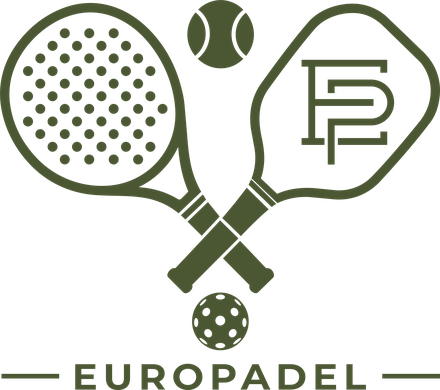
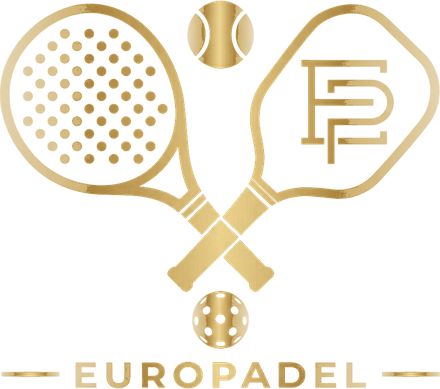
Latest Europadel website

diff --git a/club.html b/club.html
@@ -16,7 +16,7 @@
 <body>
 <div class="page " data-page="club">
 <section class="hero sub" id="top">
-  <picture><img src="img/exterior.jpg" alt="Europadel building exterior at night with the illuminated logo"></picture>
+  <picture><img src="img/community.jpg" alt="Players laughing together in the lounge after a game"></picture>
   <header class="nav" id="nav">
     <a class="logo" href="index.html" aria-label="Europadel home"><img src="img/crest-gold.png" alt="Europadel"></a>
     <div class="nav-right">
@@ -32,19 +32,19 @@
   </header>
   <div class="hero-body">
     <p class="eyebrow">The Club · Dubai Investment Park 1</p>
-    <h1>More than a court. <em>A place to belong.</em></h1>
-    <p>A 50,000 sq ft private sports club in Dubai Investment Park. Indoor, fully air-conditioned, open seven days.</p>
-    <div class="btns"><a class="btn" href="#visit">Plan Your Visit</a><a class="btn btn-ghost" href="book.html">Reserve a Court</a></div>
+    <h1>Your game. <em>Your community.</em></h1>
+    <p>A private sports club for padel and pickleball. Indoor, fully air-conditioned and open seven days.</p>
+    <div class="btns"><a class="btn" href="#visit">Plan Your Visit</a><a class="btn btn-ghost" href="membership.html">Become a Member</a></div>
   </div>
 </section>
 
 <section id="club">
   <div class="wrap club">
-    <img src="img/club.jpg" alt="Europadel reception with the gold logo on an olive wall">
+    <img src="img/club-new.jpg" alt="The Europadel café bar beside the blue padel courts, with the gold crest on the wall">
     <div>
-      <p class="eyebrow">Our Club</p>
-      <h2>Room to play,<br><em>room to breathe.</em></h2>
-      <p class="lead">Europadel is a 50,000 sq ft indoor club with 9-metre ceilings, four padel courts and five pickleball courts under one roof. Fully air-conditioned, year-round. A mezzanine café looks down onto play, the changing rooms are hotel standard, and there are 52 parking spaces on the plot.</p>
+      <p class="eyebrow">Inside Europadel</p>
+      <h2>Everything under<br><em>one roof.</em></h2>
+      <p class="lead">Walk in, check in at reception and you are steps from your court. The café looks straight onto play, the pro shop has what you forgot, and the changing rooms are ready for the drive home. Nine courts, one address, no compromises.</p>
       <div class="stats">
         <div><b>50K</b><span>Sq ft club</span></div>
         <div><b>4</b><span>Padel courts</span></div>
@@ -76,32 +76,19 @@
       <div><p class="eyebrow">The spaces</p><h2>Play. Connect. <em>Stay a little longer.</em></h2></div>
       <p>The game may bring you through the doors. The people, energy and atmosphere give you a reason to stay.</p>
     </div>
-    <div class="spaces"><article class="space" id="cafe"><img src="img/cafe.jpg" alt="Two players relaxing with coffee in the café lounge overlooking the courts"><div><p class="eyebrow">The mezzanine café</p><h3>The best seat <em>in the club.</em></h3><p>Our café sits on the mezzanine, looking straight down onto play. Replay the best point over a flat white, watch the next match, meet your next doubles partner. The after-match table is part of the game.</p><div class="tags"><span>Court views</span><span>Coffee</span><span>Fresh bites</span></div></div></article><article class="space"><img src="img/court-orange.jpg" alt="Indoor courts under warm lighting"><div><p class="eyebrow">The courts</p><h3>Two sports. <em>One roof.</em></h3><p>Four padel courts and five pickleball courts in one 50,000 sq ft hall. Indoor, 9-metre ceilings, fully air-conditioned with fresh air. Most venues make you choose a sport. We do not.</p><div class="tags"><span>4 padel</span><span>5 pickleball</span><span>9 m ceilings</span></div></div></article><article class="space" id="changing"><img src="img/changing.jpg" alt="Changing rooms with marble and soft lighting"><div><p class="eyebrow">Changing rooms and showers</p><h3>Hotel standard. <em>Every day.</em></h3><p>Spacious, hotel-standard changing rooms with serious showers. Arrive from work, leave for dinner. A place to prepare before the game and reset after it.</p><div class="tags"><span>Showers</span><span>Towels</span><span>Vanity area</span></div></div></article><article class="space"><img src="img/proshop.jpg" alt="The Europadel pro shop with apparel and racquets"><div><p class="eyebrow">Pro shop</p><h3>Your game. <em>Your style.</em></h3><p>A curated pro shop, not a kiosk. Performance wear, racquets, paddles and essentials, selected to complement your game, plus Europadel club apparel.</p><div class="tags"><span>Racquets</span><span>Paddles</span><span>Apparel</span></div></div></article><article class="space"><img src="img/lockers.jpg" alt="Member lockers with warm wood finishes"><div><p class="eyebrow">Member lockers</p><h3>Your space. <em>Your ritual.</em></h3><p>More than a place to store your essentials. Rich finishes, warm lighting and a sense of understated luxury, designed to make the club feel like your own.</p><div class="tags"><span>Day lockers</span><span>Reserved member lockers</span></div></div></article></div>
+    <div class="spaces"><article class="space" id="cafe"><img src="img/cafe.jpg" alt="Two players relaxing with coffee in the café lounge overlooking the courts"><div><p class="eyebrow">The mezzanine café</p><h3>The best seat <em>in the club.</em></h3><p>Up on the mezzanine, the café looks straight down onto the courts. Breakfast before an early game, a long lunch between sessions, or a table with friends while the evening matches play out below.</p><div class="tags"><span>Court views</span><span>Coffee</span><span>Fresh bites</span></div></div></article><article class="space"><img src="img/court-orange.jpg" alt="Indoor courts under warm lighting"><div><p class="eyebrow">The courts</p><h3>Two sports. <em>One roof.</em></h3><p>Four padel courts and five pickleball courts in one 50,000 sq ft hall. Indoor, 9-metre ceilings, fully air-conditioned with fresh air. Most venues make you choose a sport. We do not.</p><div class="tags"><span>4 padel</span><span>5 pickleball</span><span>9 m ceilings</span></div></div></article><article class="space" id="changing"><img src="img/changing.jpg" alt="Changing rooms with marble and soft lighting"><div><p class="eyebrow">Changing rooms and showers</p><h3>Hotel standard. <em>Every day.</em></h3><p>Spacious, hotel-standard changing rooms with serious showers. Arrive from work, leave for dinner. A place to prepare before the game and reset after it.</p><div class="tags"><span>Showers</span><span>Towels</span><span>Vanity area</span></div></div></article><article class="space"><img src="img/proshop.jpg" alt="The Europadel pro shop with apparel and racquets"><div><p class="eyebrow">Pro shop</p><h3>Your game. <em>Your style.</em></h3><p>A curated pro shop, not a kiosk. Performance wear, racquets, paddles and essentials, selected to complement your game, plus Europadel club apparel.</p><div class="tags"><span>Racquets</span><span>Paddles</span><span>Apparel</span></div></div></article><article class="space"><img src="img/lockers.jpg" alt="Member lockers with warm wood finishes"><div><p class="eyebrow">Member lockers</p><h3>Your space. <em>Your ritual.</em></h3><p>More than a place to store your essentials. Rich finishes, warm lighting and a sense of understated luxury, designed to make the club feel like your own.</p><div class="tags"><span>Day lockers</span><span>Reserved member lockers</span></div></div></article></div>
   </div>
 </section>
 
-<section id="sports-at-club">
+<section class="tint" id="culture" style="padding-top:0">
   <div class="wrap">
     <div class="head-row">
-      <div><p class="eyebrow">Two sports, one club</p><h2>Same court, <em>more people.</em></h2></div>
-      <p>Your first rally or your hundredth match, there is a game here with your name on it.</p>
-    </div>
-    <div class="ways two">
-      <article class="way"><small>Padel · 4 courts</small><h3>Fast rallies. <em>Big smiles.</em></h3><p>Four indoor courts under 9-metre ceilings. Always doubles, with glass walls in play and long, social rallies.</p><a class="link" href="padel.html">Discover padel <span aria-hidden="true">→</span></a></article>
-      <article class="way"><small>Pickleball · 5 courts</small><h3>Easy to learn. <em>Hard to put down.</em></h3><p>Five indoor, air-conditioned courts. Quick games to 11, a gentle learning curve and properly competitive once you get going.</p><a class="link" href="pickleball.html">Discover pickleball <span aria-hidden="true">→</span></a></article>
-    </div>
-  </div>
-</section>
-
-<section class="tint" id="culture">
-  <div class="wrap">
-    <div class="head-row">
-      <div><p class="eyebrow">Club culture</p><h2>Your game. <em>Your community.</em></h2></div>
-      <p>At Europadel you are more than a player. You are the heart of the club.</p>
+      <div><p class="eyebrow">Club culture</p><h2>More than a player. <em>Part of the club.</em></h2></div>
+      <p>Every court, every gathering and every detail is designed around the people who play here.</p>
     </div>
     <div class="basics">
       <article class="basic"><h3>Every level welcome</h3><p>First-timers and tournament players share the same courts. Nobody is too new to play.</p></article>
-      <article class="basic"><h3>Play, then stay</h3><p>The game ends; the conversation doesn't. Post-match coffee in the lounge is part of the ritual.</p></article>
+      <article class="basic"><h3>Play, then stay</h3><p>The game ends; the conversation doesn't. The after-match table is part of the ritual.</p></article>
       <article class="basic"><h3>Meet new partners</h3><p>Looking for a fourth? Ask reception or join a social session to find players at your level.</p></article>
       <article class="basic"><h3>Two sports, one roof</h3><p>Padel and pickleball side by side. Bring friends who play either, and meet in the café after.</p></article>
     </div>
@@ -125,11 +112,11 @@
   </div>
 </section>
 
-<section class="promise" aria-label="Our promise">
-  <img src="img/promise.jpg" alt="">
+<section class="promise" aria-label="Our mission">
+  <img src="img/club-hall.jpg" alt="">
   <div class="wrap">
-    <p class="eyebrow">Our Promise</p>
-    <p class="quote">A community built around a <em>brighter tomorrow.</em></p>
+    <p class="eyebrow">Our Mission</p>
+    <p class="quote">Elevating the game.<br><em>Connecting people.</em></p>
   </div>
 </section>
 
@@ -149,7 +136,7 @@
     </div>
     <div class="right">
       <a class="map" href="https://www.google.com/maps/search/Eurostar/@24.9759004,55.1531966,16.6z?hl=en" target="_blank" rel="noopener" aria-label="Open Europadel location in Google Maps">
-        <img src="img/exterior.jpg" alt="Europadel building exterior at night with the illuminated logo">
+        <img src="img/location.jpg" alt="Player walking onto a padel court at sunset">
         <span>View on Google Maps <b style="color:var(--apricot-deep)" aria-hidden="true">→</b></span>
       </a>
       <dl class="details">

diff --git a/styles.css b/styles.css
@@ -823,3 +823,82 @@ button.btn{font-family:inherit; border:0; cursor:pointer}
 .admin section.ap-view{padding:0; display:flex; flex-direction:column; gap:20px}
 .admin section.ap-view[hidden]{display:none}
 .admin section.gate{padding:24px 16px}
+
+/* Oct 9: olive menu bar on every page including the homepage; new photo framing */
+.hero .nav{background:var(--olive); border-bottom:0}
+
+/* Oct 9 (2): colour + framing requests */
+.promise .quote em{color:var(--apricot-deep)}
+.app-title h1 em{color:var(--apricot-deep)}
+.page[data-page="club"] .promise::after{background:linear-gradient(90deg, rgba(24,29,15,.86) 0%, rgba(24,29,15,.72) 55%, rgba(24,29,15,.45) 100%)}
+
+/* Oct 9 (3): every italic heading word in deep apricot */
+.hero h1 em, .hero.sub h1 em{color:var(--apricot-deep)}
+.cta-band h2 em, .fresh h2 em, .fresh-grid b em, .auth > figure figcaption em, .space h3 em, .way h3 em, .card h3 em, .done h1 em, .tier h3 em{color:var(--apricot-deep)}
+
+/* booking page cover photo */
+.page[data-page="book"] .hero.sub .hero-body{padding:clamp(48px, 6vw, 80px) var(--pad) clamp(56px, 7vw, 90px)}
+.page[data-page="book"] .hero .btns:empty{display:none}
+
+/* PHOTO FRAMING: keep faces and action in view (generated from face positions) */
+img[src$="booking-hero.jpg"]{object-position:45% 0% !important}
+img[src$="cafe.jpg"]{object-position:34% 0% !important}
+img[src$="card.jpg"]{object-position:50% 50% !important}
+img[src$="changing.jpg"]{object-position:50% 50% !important}
+img[src$="club-hall.jpg"]{object-position:78% 23% !important}
+img[src$="club-new.jpg"]{object-position:45% 50% !important}
+img[src$="club.jpg"]{object-position:29% 17% !important}
+img[src$="coach-1to1.jpg"]{object-position:53% 2% !important}
+img[src$="coaching-hero.jpg"]{object-position:41% 22% !important}
+img[src$="community.jpg"]{object-position:64% 3% !important}
+img[src$="court-orange.jpg"]{object-position:50% 55% !important}
+img[src$="hero-m.jpg"]{object-position:50% 50% !important}
+img[src$="hero.jpg"]{object-position:50% 50% !important}
+img[src$="location.jpg"]{object-position:50% 40% !important}
+img[src$="lockers.jpg"]{object-position:50% 50% !important}
+img[src$="m1.jpg"]{object-position:50% 30% !important}
+img[src$="m2.jpg"]{object-position:50% 40% !important}
+img[src$="m3.jpg"]{object-position:50% 40% !important}
+img[src$="padel-g1.jpg"]{object-position:53% 19% !important}
+img[src$="padel-g2.jpg"]{object-position:49% 13% !important}
+img[src$="padel-g3.jpg"]{object-position:29% 16% !important}
+img[src$="padel.jpg"]{object-position:42% 26% !important}
+img[src$="pickle-play.jpg"]{object-position:44% 2% !important}
+img[src$="pickle.jpg"]{object-position:49% 8% !important}
+img[src$="price-hero.jpg"]{object-position:47% 13% !important}
+img[src$="promise.jpg"]{object-position:50% 60% !important}
+img[src$="proshop.jpg"]{object-position:50% 50% !important}
+/* END PHOTO FRAMING */
+
+/* cover photos start below the solid menu bar, so nothing is hidden behind it */
+.hero > picture{top:var(--navh, 104px) !important; bottom:0; height:auto !important}
+.hero > picture img{height:100% !important}
+.hero{--navh:104px}
+@media (max-width:760px){ .hero{--navh:80px} }
+/* pickleball cover: headline on one line */
+.page[data-page="pickleball"] .hero h1 em{display:inline}
+@media (min-width:761px){ .page[data-page="pickleball"] .hero h1{white-space:nowrap; font-size:clamp(40px, 5.2vw, 80px)} }
+@media (max-width:760px){ .page[data-page="pickleball"] .hero h1{font-size:clamp(26px, 7.4vw, 40px); white-space:nowrap} }
+
+/* homepage sport cards: identical boxes, one-line titles at the same size */
+#sports .cards{align-items:stretch}
+#sports .card{container-type:inline-size}
+#sports .card h3{white-space:nowrap; font-size:clamp(17px, 6.1cqi, 40px)}
+#sports .card h3 em{display:inline}
+#sports .card img{height:300px}
+@media (max-width:760px){ #sports .card img{height:220px} }
+/* booking cover: taller so her head is fully visible */
+.page[data-page="book"] .hero.sub .hero-body{padding:clamp(80px, 9vw, 130px) var(--pad) clamp(80px, 9vw, 120px)}
+#sports .cards{grid-auto-rows:1fr}
+#sports .card .foot{flex-direction:column; align-items:flex-start; gap:18px}
+
+/* homepage green band: continuous ticker (the whole line moves together) */
+.strip{display:block; overflow:hidden; padding:24px 0; white-space:nowrap}
+.strip-track{display:flex; width:max-content; animation:stripMove 38s linear infinite}
+.strip-group{display:flex; align-items:center; gap:30px; padding-right:30px; flex:none}
+.strip:hover .strip-track{animation-play-state:paused}
+@keyframes stripMove{from{transform:translateX(0)} to{transform:translateX(-25%)}}
+@media (max-width:760px){ .strip{padding:18px 0} .strip-group{gap:16px; padding-right:16px} .strip-track{animation-duration:26s} }
+@media (prefers-reduced-motion: reduce){ .strip-track{animation:none} .strip{display:flex; justify-content:center} .strip-group[aria-hidden]{display:none} .strip{white-space:normal} }
+/* homepage cover: "A place to belong." in white */
+.page[data-page="home"] .hero h1 em{color:var(--white)}

diff --git a/index.html b/index.html
@@ -42,9 +42,7 @@
   <a class="scroll" href="#club" aria-label="Scroll to the club"><svg width="18" height="18" viewBox="0 0 24 24" fill="none" stroke="currentColor" style="color:var(--white)" stroke-width="1.4" aria-hidden="true"><path d="M12 5v14M6 13l6 6 6-6"/></svg></a>
 </section>
 
-<div class="strip" aria-label="Play, connect, belong">
-  <span>Play</span><i>✦</i><span>Connect</span><i>✦</i><span>Belong</span><i>✦</i><span>Same Court, More People</span><i>✦</i><em>Stay for coffee</em>
-</div>
+<div class="strip" aria-label="Play, connect, belong"><div class="strip-track"><div class="strip-group"><span>Play</span><i>✦</i><span>Connect</span><i>✦</i><span>Belong</span><i>✦</i><span>Same Court, More People</span><i>✦</i><em>Stay for coffee</em><i>✦</i></div><div class="strip-group" aria-hidden="true"><span>Play</span><i>✦</i><span>Connect</span><i>✦</i><span>Belong</span><i>✦</i><span>Same Court, More People</span><i>✦</i><em>Stay for coffee</em><i>✦</i></div><div class="strip-group" aria-hidden="true"><span>Play</span><i>✦</i><span>Connect</span><i>✦</i><span>Belong</span><i>✦</i><span>Same Court, More People</span><i>✦</i><em>Stay for coffee</em><i>✦</i></div><div class="strip-group" aria-hidden="true"><span>Play</span><i>✦</i><span>Connect</span><i>✦</i><span>Belong</span><i>✦</i><span>Same Court, More People</span><i>✦</i><em>Stay for coffee</em><i>✦</i></div></div></div>
 
 <section id="club">
   <div class="wrap club">
@@ -134,7 +132,7 @@
     </div>
     <div class="right">
       <a class="map" href="https://www.google.com/maps/search/Eurostar/@24.9759004,55.1531966,16.6z?hl=en" target="_blank" rel="noopener" aria-label="Open Europadel location in Google Maps">
-        <img src="img/exterior.jpg" alt="Europadel building exterior at night with the illuminated logo">
+        <img src="img/location.jpg" alt="Player walking onto a padel court at sunset">
         <span>View on Google Maps <b style="color:var(--apricot-deep)" aria-hidden="true">→</b></span>
       </a>
       <dl class="details">

diff --git a/book.html b/book.html
@@ -15,7 +15,9 @@
 </head>
 <body>
 <div class="page " data-page="book">
-<header class="nav solid" id="nav">
+<section class="hero sub" id="top">
+  <picture><img src="img/booking-hero.jpg" alt="Player arriving at the club with her padel bag"></picture>
+  <header class="nav" id="nav">
     <a class="logo" href="index.html" aria-label="Europadel home"><img src="img/crest-gold.png" alt="Europadel"></a>
     <div class="nav-right">
       <div class="nav-actions">
@@ -28,9 +30,15 @@
       </ul>
     </div>
   </header>
+  <div class="hero-body">
+    <p class="eyebrow">Booking</p>
+    <h1>Reserve <em>a court.</em></h1>
+    <p>Pick your game, day and time. Members see free sessions applied automatically.</p>
+    <div class="btns"></div>
+  </div>
+</section>
 <div class="demo-bar"><b>Preview</b>Bookings, sign-in and payments on this preview are simulated. No money is taken.</div>
-<main class="app"><div class="wrap"><div class="app-title"><p class="eyebrow">Booking</p><h1>Reserve <em>a court.</em></h1><p>Pick your game, day and time. Members see free sessions applied automatically.</p></div>
-<div class="app-grid">
+<main class="app"><div class="wrap"><div class="app-grid">
   <div>
     <section class="box" aria-labelledby="h-what">
       <h2 id="h-what"><span class="n">1</span>What would you like to book?</h2>

diff --git a/coaching.html b/coaching.html
@@ -16,7 +16,7 @@
 <body>
 <div class="page " data-page="coaching">
 <section class="hero sub" id="top">
-  <picture><img src="img/m1.jpg" alt="Player walking onto the court"></picture>
+  <picture><img src="img/coaching-hero.jpg" alt="A coach working with a group of players on an indoor padel court"></picture>
   <header class="nav" id="nav">
     <a class="logo" href="index.html" aria-label="Europadel home"><img src="img/crest-gold.png" alt="Europadel"></a>
     <div class="nav-right">
@@ -40,7 +40,7 @@
 
 <section>
   <div class="wrap split">
-    <img src="img/m3.jpg" alt="Players gathering in the café after games">
+    <img src="img/coach-1to1.jpg" alt="A one-to-one coaching session on court">
     <div>
       <div><p class="eyebrow">Our coaching</p><h2>Better every <em>session.</em></h2></div>
       <p>Our coaches teach both padel and pickleball, on the same climate-controlled courts you play on. Every session starts with what you want to improve, and ends with something you can take straight into your next game.</p>

diff --git a/padel.html b/padel.html
@@ -94,9 +94,9 @@
 <section style="padding-top:0">
   <div class="wrap">
     <div class="moments">
-      <div class="moment"><img src="img/m1.jpg" alt="Player walking onto the court"></div>
-      <div class="moment"><img src="img/hero.jpg" alt="Players on the blue indoor padel courts at Europadel" style="object-position:40% center"></div>
-      <div class="moment"><img src="img/m3.jpg" alt="Players gathering in the café after games"></div>
+      <div class="moment"><img src="img/padel-g1.jpg" alt="Doubles players at the net on a blue padel court"></div>
+      <div class="moment"><img src="img/padel-g2.jpg" alt="Padel player leaping for an overhead smash"></div>
+      <div class="moment"><img src="img/padel-g3.jpg" alt="Padel player stretching for a ball off the glass"></div>
     </div>
   </div>
 </section>

diff --git a/app.js b/app.js
@@ -380,7 +380,7 @@ if(page === 'book'){
   }
   function all(){ renderAct(); renderDates(); renderSlots(); renderCourts(); renderExtras(); renderSummary(); }
   all();
-  var sel = $('#dates [aria-pressed="true"]'); if(sel) sel.scrollIntoView({block:'nearest', inline:'nearest'});
+  var sel = $('#dates [aria-pressed="true"]'); if(sel){ var dc = $('#dates'); dc.scrollLeft = Math.max(0, sel.offsetLeft - dc.offsetLeft - 8); }
 
   $$('.choice').forEach(function(c){ c.addEventListener('click', function(){ st.act = c.getAttribute('data-act'); if(st.act !== 'coaching') st.sport = st.act; all(); }); });
   $('#coachSport').addEventListener('click', function(e){ var b = e.target.closest('button'); if(!b) return; st.sport = b.getAttribute('data-v'); all(); });

diff --git a/pickleball.html b/pickleball.html
@@ -40,7 +40,7 @@
 
 <section>
   <div class="wrap split">
-    <img src="img/pickle.jpg" alt="Player stretching for a pickleball volley at the net" style="object-position:center">
+    <img src="img/pickle-play.jpg" alt="Two players in a fast pickleball rally at the kitchen line">
     <div>
       <div><p class="eyebrow">The game</p><h2>Everyone plays.<br><em>Everyone laughs.</em></h2></div>
       <p>Pickleball mixes the best of tennis, badminton and table tennis on a smaller court with a solid paddle and a light, holed ball. It is gentle on the body, quick to pick up and properly competitive once you get going. Grandparents, teenagers and first-timers can all share a court.</p>

diff --git a/pricing.html b/pricing.html
@@ -16,7 +16,7 @@
 <body>
 <div class="page " data-page="pricing">
 <section class="hero sub" id="top">
-  <picture><img src="img/promise.jpg" alt=""></picture>
+  <picture><img src="img/price-hero.jpg" alt="Reception desk with padel rackets and balls"></picture>
   <header class="nav" id="nav">
     <a class="logo" href="index.html" aria-label="Europadel home"><img src="img/crest-gold.png" alt="Europadel"></a>
     <div class="nav-right">
